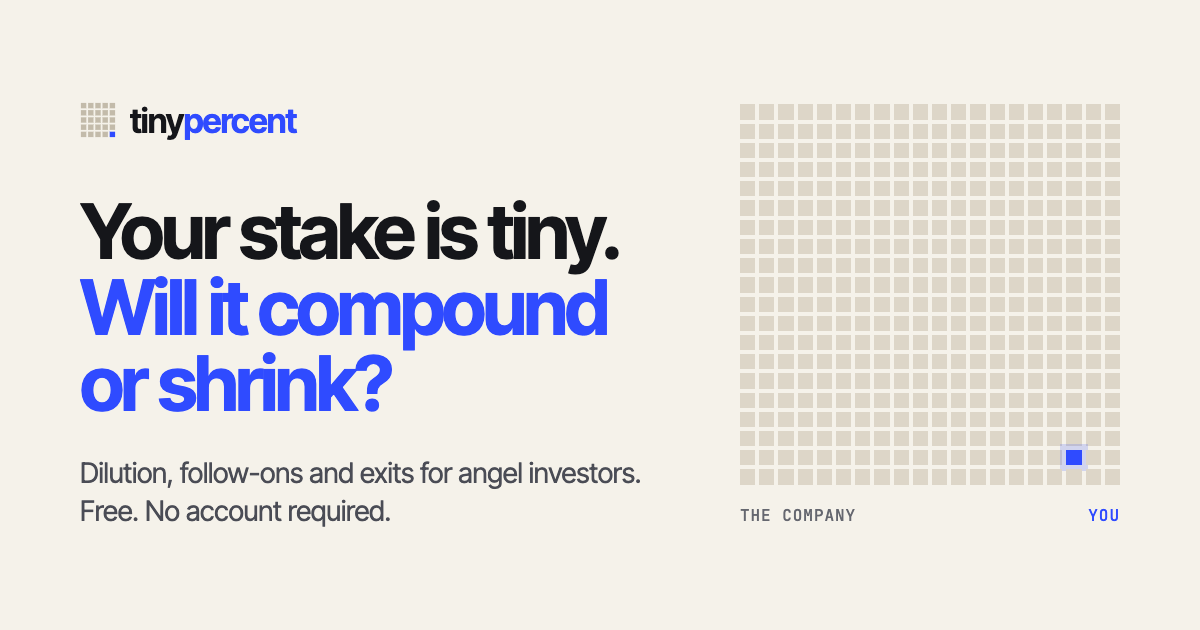
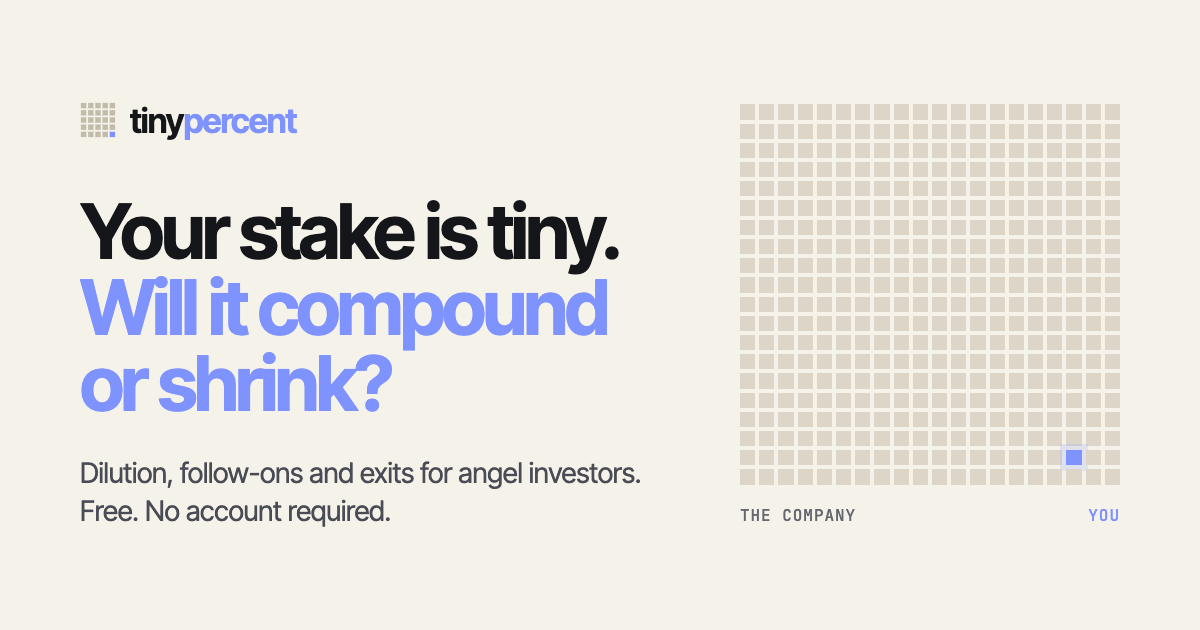
Make the footer black and use the light blue everywhere
The footer now sits on black in both themes, with the dark palette's text
colours so it stays readable. The light theme's cobalt is replaced by the
dark theme's lighter blue (#7f93ff), so every blue matches: the accent
token, favicon, link-preview image (regenerated) and PDF report. Text on
blue buttons is now dark, since white on the lighter blue is too faint.

Changed region(s): [[0.0617, 0.4222, 0.5242, 0.6635], [0.1542, 0.181, 0.2467, 0.2111], [0.8942, 0.7238, 0.925, 0.754]]

diff --git a/tools/og-image.html b/tools/og-image.html
@@ -12,22 +12,22 @@
   body { background: #f5f2ea; color: #15161a; font-family: "Inter Tight", sans-serif; }
   .frame { position: absolute; inset: 0; padding: 70px 80px; display: grid; grid-template-columns: 1fr 380px; gap: 70px; align-items: center; }
   .brand { display: flex; align-items: center; gap: 14px; font-size: 34px; font-weight: 650; letter-spacing: -0.03em; margin-bottom: 52px; }
-  .brand b { color: #2f4bff; font-weight: inherit; }
+  .brand b { color: #7f93ff; font-weight: inherit; }
   h1 { margin: 0; font-size: 76px; line-height: 1.0; letter-spacing: -0.045em; font-weight: 680; }
-  h1 em { font-style: normal; color: #2f4bff; }
+  h1 em { font-style: normal; color: #7f93ff; }
   p { margin: 34px 0 0; font-size: 28px; color: #4a4c55; line-height: 1.35; letter-spacing: -0.01em; }
   .grid { display: grid; grid-template-columns: repeat(20, 1fr); gap: 4px; }
   .grid i { display: block; aspect-ratio: 1; background: #ddd6c8; }
-  .grid i.you { background: #2f4bff; box-shadow: 0 0 0 6px rgba(47,75,255,.18); }
+  .grid i.you { background: #7f93ff; box-shadow: 0 0 0 6px rgba(127,147,255,.18); }
   .label { margin-top: 20px; display: flex; justify-content: space-between; font: 500 16px "JetBrains Mono", monospace; color: #65676f; letter-spacing: .06em; text-transform: uppercase; }
-  .label span:last-child { color: #2f4bff; }
+  .label span:last-child { color: #7f93ff; }
 </style>
 </head>
 <body>
   <div class="frame">
     <div>
       <div class="brand">
-        <svg width="36" height="36" viewBox="0 0 20 20"><g fill="#c3bbaa"><rect x=".5" y=".5" width="3" height="3"/><rect x="4.5" y=".5" width="3" height="3"/><rect x="8.5" y=".5" width="3" height="3"/><rect x="12.5" y=".5" width="3" height="3"/><rect x="16.5" y=".5" width="3" height="3"/><rect x=".5" y="4.5" width="3" height="3"/><rect x="4.5" y="4.5" width="3" height="3"/><rect x="8.5" y="4.5" width="3" height="3"/><rect x="12.5" y="4.5" width="3" height="3"/><rect x="16.5" y="4.5" width="3" height="3"/><rect x=".5" y="8.5" width="3" height="3"/><rect x="4.5" y="8.5" width="3" height="3"/><rect x="8.5" y="8.5" width="3" height="3"/><rect x="12.5" y="8.5" width="3" height="3"/><rect x="16.5" y="8.5" width="3" height="3"/><rect x=".5" y="12.5" width="3" height="3"/><rect x="4.5" y="12.5" width="3" height="3"/><rect x="8.5" y="12.5" width="3" height="3"/><rect x="12.5" y="12.5" width="3" height="3"/><rect x="16.5" y="12.5" width="3" height="3"/><rect x=".5" y="16.5" width="3" height="3"/><rect x="4.5" y="16.5" width="3" height="3"/><rect x="8.5" y="16.5" width="3" height="3"/><rect x="12.5" y="16.5" width="3" height="3"/></g><rect x="16.5" y="16.5" width="3" height="3" fill="#2f4bff"/></svg>
+        <svg width="36" height="36" viewBox="0 0 20 20"><g fill="#c3bbaa"><rect x=".5" y=".5" width="3" height="3"/><rect x="4.5" y=".5" width="3" height="3"/><rect x="8.5" y=".5" width="3" height="3"/><rect x="12.5" y=".5" width="3" height="3"/><rect x="16.5" y=".5" width="3" height="3"/><rect x=".5" y="4.5" width="3" height="3"/><rect x="4.5" y="4.5" width="3" height="3"/><rect x="8.5" y="4.5" width="3" height="3"/><rect x="12.5" y="4.5" width="3" height="3"/><rect x="16.5" y="4.5" width="3" height="3"/><rect x=".5" y="8.5" width="3" height="3"/><rect x="4.5" y="8.5" width="3" height="3"/><rect x="8.5" y="8.5" width="3" height="3"/><rect x="12.5" y="8.5" width="3" height="3"/><rect x="16.5" y="8.5" width="3" height="3"/><rect x=".5" y="12.5" width="3" height="3"/><rect x="4.5" y="12.5" width="3" height="3"/><rect x="8.5" y="12.5" width="3" height="3"/><rect x="12.5" y="12.5" width="3" height="3"/><rect x="16.5" y="12.5" width="3" height="3"/><rect x=".5" y="16.5" width="3" height="3"/><rect x="4.5" y="16.5" width="3" height="3"/><rect x="8.5" y="16.5" width="3" height="3"/><rect x="12.5" y="16.5" width="3" height="3"/></g><rect x="16.5" y="16.5" width="3" height="3" fill="#7f93ff"/></svg>
         <span>tiny<b>percent</b></span>
       </div>
       <h1>Your stake is tiny. <em>Will it compound or shrink?</em></h1>

diff --git a/src/index.css b/src/index.css
@@ -1,9 +1,9 @@
 @import "tailwindcss";
 
-/* TinyPercent, "paper & cobalt": warm paper neutrals and one electric cobalt for
-   your slice of the company, with one hue for growth and one for dilution and
-   fees. Every text colour clears WCAG AA (4.5:1) on every background token in
-   both themes. `slice` and `grid` are the company-grid visuals' own names. */
+/* TinyPercent, "paper & cobalt": warm paper neutrals and one light cobalt, the
+   same in both themes, for your slice of the company, with one hue for growth
+   and one for dilution and fees. Every text colour except the blue clears WCAG
+   AA (4.5:1) on every background token in both themes. `slice` and `grid` are the company-grid visuals' own names. */
 @theme {
   --color-ground: #f5f2ea;
   --color-surface: #fffdf8;
@@ -13,9 +13,10 @@
   --color-ink-faint: #65676f;
   --color-rule: #ddd6c8;
   --color-rule-strong: #c3bbaa;
-  --color-accent: #2f4bff;
+  --color-accent: #7f93ff;
   --color-accent-wash: #e6e9ff;
-  --color-on-accent: #ffffff;
+  /* Dark text on the light blue: white on it would be too faint to read. */
+  --color-on-accent: #15161a;
   --color-gain: #1a6e49;
   --color-dilute: #a83e25;
   --color-slice: var(--color-accent);
@@ -72,6 +73,16 @@
   --color-dilute: #f08a66;
   --color-grid: #25272e;
   --color-marker: #5a4a12;
+}
+
+/* The footer is always black, in either theme: it takes the dark palette on a
+   black surface so its text, links and wordmark keep their contrast. */
+.footer-black {
+  --color-surface: #000000;
+  --color-ink: #eceae4;
+  --color-ink-soft: #b9b8b2;
+  --color-ink-faint: #94938e;
+  --color-rule: #2a2c33;
 }
 
 /* A highlighter stroke behind text. It sits a little inside the line height,

diff --git a/src/landing/Sections.tsx b/src/landing/Sections.tsx
@@ -483,7 +483,7 @@ export function SiteFooter() {
     ['Terms', '/terms', undefined],
   ]
   return (
-    <footer className="border-t border-rule bg-surface">
+    <footer className="footer-black border-t border-rule bg-surface">
       <div className="mx-auto grid max-w-6xl gap-8 px-4 py-12 sm:px-6 md:grid-cols-[minmax(0,1fr)_minmax(0,2fr)]">
         <div>
           <p className="text-lg text-ink">

diff --git a/src/ui/report/pdf.ts b/src/ui/report/pdf.ts
@@ -15,7 +15,7 @@ const INK: Rgb = [21, 22, 26]
 const SOFT: Rgb = [74, 76, 85]
 const FAINT: Rgb = [101, 103, 111]
 const RULE: Rgb = [221, 214, 200]
-const ACCENT: Rgb = [47, 75, 255]
+const ACCENT: Rgb = [127, 147, 255]
 const WASH: Rgb = [230, 233, 255]
 const SUNK: Rgb = [236, 231, 220]
 const GAIN: Rgb = [26, 110, 73]
